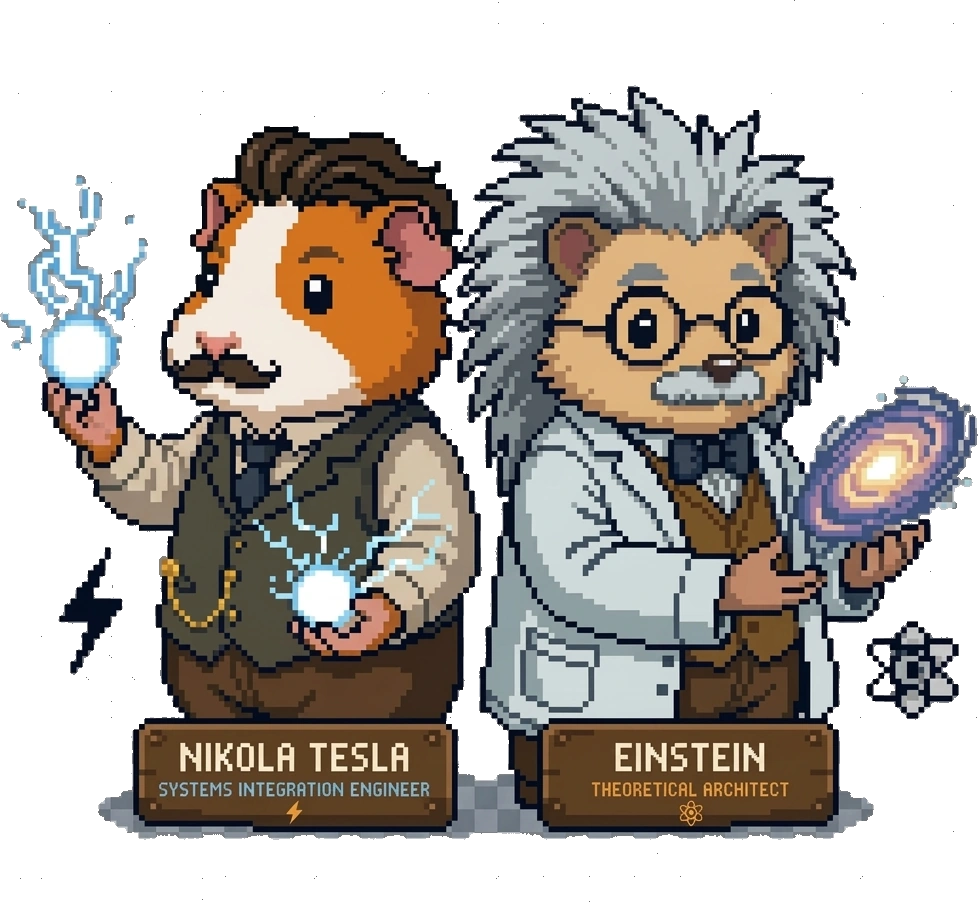
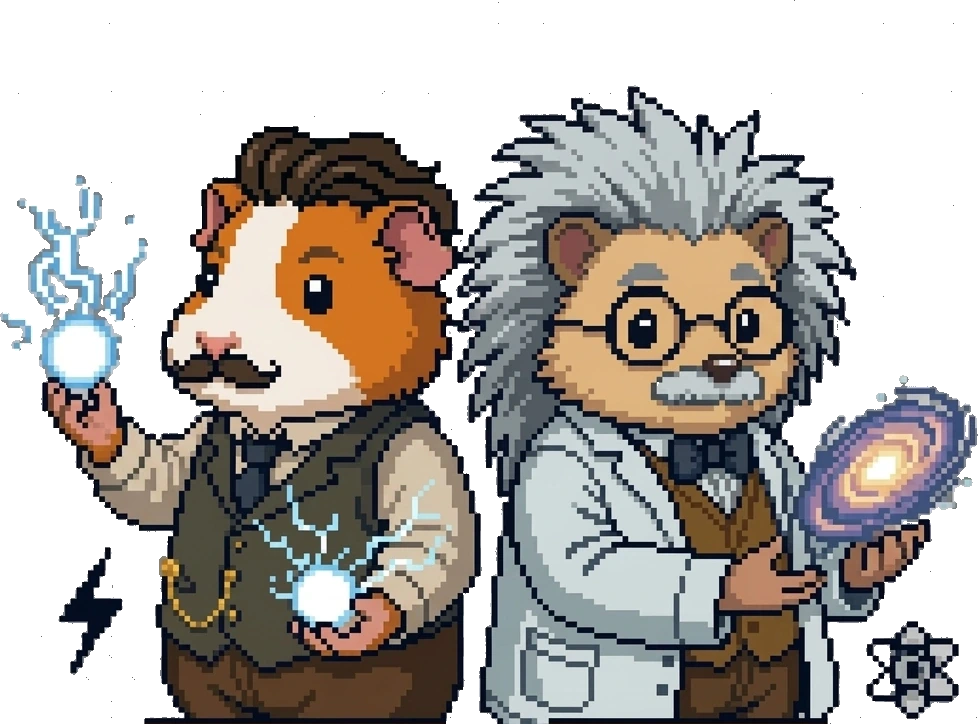
fix(web): la maqueta se rompia en español, fuera los pies de foto, y el detalle tecnico se pliega
1. ESPAÑOL. Medido a 320, 375, 414, 768, 1024, 1280 y 1440 px, comparando
   ingles contra el texto dilatado un 28% (lo que crece el español), y
   marcando SOLO lo que aparece con el español.
   El mismo fallo latente estaba en TRES rejillas y un flex: una pista sin
   `minmax(0, ...)` (o una casilla de flex sin `min-width: 0`) no encoge por
   debajo de su contenido. En ingles colaba de milagro; en español se salian
   de la pantalla, y como `html` lleva `overflow-x: clip` el contenido quedaba
   CORTADO y no se podia ni arrastrar para verlo.
     .mp-list    "Inside my own pack" se salia ~100 px a 375 y 414
     .estimator  los botones del motor, a 320, 375 y 414
     .faq-a      las respuestas del FAQ, hasta x=836 en una pantalla de 375
     .hero-me    la nota junto al personaje, 26 px a 320
   Mas `overflow-wrap: anywhere` para nombres propios y <code> que no partian.
   Resultado: los 7 anchos limpios, cero desborde nuevo en español.

2. FUERA LOS PIES DE FOTO. Los cuatro <figcaption> se van: dos iban SUPERPUESTOS
   sobre la foto con un degradado oscuro para poder leerse, y los otros dos
   describian debajo lo que la imagen ya enseña. Lo que decian vive en el `alt`,
   que es lo que leen un buscador y un lector de pantalla, y no tapa nada.
   El del diagrama de cargadores no era un pie sino su afirmacion, asi que pasa
   a parrafo en vez de borrarse.

3. LAS MASCOTAS, SIN CARGOS INVENTADOS. La ilustracion traia dos placas
[…]

diff --git a/index.html b/index.html
@@ -836,7 +836,12 @@
 
     /* ── ESTIMATOR ── */
     #estimator { border-top: 1px solid var(--border); }
-    .estimator { margin-top: 2.75rem; display: grid; grid-template-columns: 1.3fr 1fr; gap: 1.5rem; align-items: start; }
+    /* `minmax(0, ...)` en las dos columnas: un `1fr` pelado tiene como minimo el
+       min-content de lo que lleva dentro, asi que no encoge por debajo de su
+       palabra o su boton mas ancho. Con el texto en español los botones del
+       motor se salian de la pantalla a 320, 375 y 414 px. Mismo fallo que tenia
+       `.mp-list`. */
+    .estimator { margin-top: 2.75rem; display: grid; grid-template-columns: minmax(0, 1.3fr) minmax(0, 1fr); gap: 1.5rem; align-items: start; }
     .est-form { background: linear-gradient(180deg, #1a1814, #131210); padding: var(--pad-card); border: 1px solid var(--border); border-radius: var(--radius-lg); box-shadow: inset 0 1px 0 rgba(234,228,214,0.04), 0 8px 24px -16px rgba(0,0,0,0.7); }
     /* Elegir Compatibilidad/Mantenimiento/Optimizacion hace desaparecer tres
        preguntas y aparecer otra de golpe, sin explicacion: el formulario cambia de
@@ -924,7 +929,12 @@
     /* La frase va en HTML y no dentro del SVG: asi usa la tipografia real del
        sitio, escala como el resto del texto y la lee un buscador. */
     .loomd-claim { margin: 0.4rem auto 0; max-width: 560px; text-align: center; font-family: var(--font-display); font-weight: 700; font-size: 1.22rem; letter-spacing: -0.01em; color: var(--text); }
-    .loomd-wrap figcaption { margin-top: 1.2rem; font-size: 0.85rem; line-height: 1.65; color: var(--text-mute); max-width: 62ch; }
+    /* La afirmacion secundaria del diagrama. Era un <figcaption> y ahora es un
+       <p>: no describia el dibujo, decia lo que hace josda, y un pie de foto
+       debajo de una imagen es justo lo que el no quiere. Se centra como su
+       hermana de arriba, en vez de alinearse a la izquierda como hacia el pie. */
+    .loomd-claim--sub { margin-top: 0.7rem; font-family: inherit; font-weight: 400;
+      font-size: 0.9rem; line-height: 1.6; color: var(--text-mute); max-width: 46ch; }
     .est-opt .loglyph { width: 16px; height: 16px; margin-right: 0.5rem; vertical-align: middle; }
     .est-opt.brand-forge .loglyph { color: #b9b3a7; }
     .est-opt.brand-neoforge .loglyph { color: var(--terracotta); }
@@ -1124,7 +1134,12 @@
        a la altura real, asi que las respuestas cortas terminaban antes de tiempo y
        las largas daban un tiron al final. Con 0fr->1fr la altura real es la que se
        anima, no hay techo que ajustar y no hay nada que se pueda cortar. */
-    .faq-a { display: grid; grid-template-rows: 0fr; overflow: hidden; transition: grid-template-rows 0.25s ease; padding: 0 1.3rem; color: var(--text-soft); font-size: 0.88rem; line-height: 1.65; }
+    /* Lleva `grid-template-columns` aunque la rejilla se use para las FILAS (el
+       acordeon anima `0fr -> 1fr`). Sin declararla, la columna implicita queda en
+       `auto`, cuyo minimo es el min-content: la respuesta no encogia por debajo
+       de su palabra mas larga y en español se salia de la pantalla. Tercera vez
+       el mismo fallo en esta hoja, despues de `.mp-list` y `.estimator`. */
+    .faq-a { display: grid; grid-template-rows: 0fr; grid-template-columns: minmax(0, 1fr); overflow: hidden; transition: grid-template-rows 0.25s ease; padding: 0 1.3rem; color: var(--text-soft); font-size: 0.88rem; line-height: 1.65; }
     /* Medido: 129 caracteres por linea, lo mas ilegible de la pagina. El borde y la
        flecha los pone .faq-item, asi que limitar aqui no rompe la caja.
        Ni relleno ni margen abajo en el hijo: es la casilla de la rejilla y su caja
@@ -1223,6 +1238,24 @@
        La frase de debajo no es adorno: un numero suelto no dice nada, lo que
        convence es la frase que le dice al numero que esta demostrando. */
     .figrow { display: grid; grid-template-columns: repeat(3, minmax(0, 1fr)); gap: 1.4rem; margin: 2.2rem 0 2.6rem; }
+    /* Tres columnas a 320 px dan ~90 px cada una, y ahi ya no cabe una palabra
+       larga en español: la cifra y su texto se salian de la pantalla. Por debajo
+       de 420 px van en una sola columna. `overflow-wrap` es la red de seguridad
+       para una palabra que no quepa ni asi (nombres de mod, rutas). */
+    @media (max-width: 420px) { .figrow { grid-template-columns: minmax(0, 1fr); gap: 1rem; } }
+    .fig-t, .fig-n { overflow-wrap: anywhere; }
+    /* Red de seguridad para palabras que no caben en una pantalla estrecha:
+       nombres propios largos (BuiltByBit, CurseForge, los ids de los mods) y los
+       <code>. Sin esto se salian de la pantalla en español, y como `html` lleva
+       `overflow-x: clip` no se podian ni arrastrar para leerlos: quedaban
+       cortados. Va `anywhere` y no `break-word` A PROPOSITO: solo `anywhere`
+       reduce el min-content, que es lo que permite a una casilla de rejilla o de
+       flex encoger por debajo de su palabra mas larga. `break-word` deja el
+       min-content igual y el desborde seguiria. Solo actua cuando la palabra NO
+       cabe, asi que el texto normal no cambia. */
+    p, li, h1, h2, h3, h4, dd, dt, td, th, summary, code,
+    .fig-t, .est-label, .card-stats .v, .port-name,
+    .faq-body, .est-disclaimer { overflow-wrap: anywhere; }
     .fig { display: flex; flex-direction: column; gap: 0.5rem; }
     .fig-n { font-family: var(--font-display); font-size: clamp(2.4rem, 6vw, 3.4rem); font-weight: 700; line-height: 0.95; color: var(--gold); font-variant-numeric: tabular-nums; }
     .fig-rule { width: 44px; height: 2px; background: var(--border-lt); }
@@ -1314,8 +1347,8 @@
          personajes SON las dos mitades del proceso */
     .mascotas { margin: 2.2rem auto 0; max-width: 500px; }
     .mascotas img { display: block; width: 100%; height: auto; }
-    .mascotas figcaption { margin-top: 0.9rem; font-size: 0.85rem; line-height: 1.65; color: var(--text-mute); text-align: center; max-width: 36em; margin-left: auto; margin-right: auto; }
-    .mascotas figcaption strong { color: var(--text-soft); }
+    /* Sin `figcaption`: se recortaron las placas con los cargos inventados, asi
+       que ya no hay nada que desmentir debajo de la imagen. */
     /* El perro y el gato. Venian con cinco estrellas doradas y "Expertos."
        encima: en una pagina de servicios eso se lee como una NOTA, y no hay
        ninguna resena detras. Se recorto esa franja y el pie dice lo que si es
@@ -1354,15 +1387,18 @@
     /* El pie va sobre la imagen y no debajo: debajo parte el respiro en dos y deja
        de leerse como una pausa. El degradado es fijo (no de tema) porque lo que hay
        detras es la foto, que no cambia con el tema. */
-    .scene-band figcaption { position: absolute; inset: auto 0 0 0; padding: 2.8rem 1.5rem 0.9rem; font-size: 0.78rem; line-height: 1.5; color: rgba(255,255,255,0.87); background: linear-gradient(180deg, rgba(9,8,6,0) 0%, rgba(9,8,6,0.68) 58%, rgba(9,8,6,0.9) 100%); }
-    .scene-band figcaption > span { display: block; max-width: 1240px; margin: 0 auto; }
-    @media (max-width: 720px) { .scene-band figcaption { padding-inline: 1.2rem; font-size: 0.74rem; } }
+    /* Las bandas ya NO llevan pie superpuesto. Llevaban un <figcaption> en
+       `position: absolute` con un degradado oscuro encima de la foto para poder
+       leerse: texto sobre la imagen, que es justo lo que josda no quiere. Lo que
+       decian vive en el `alt`, que es lo que leen un buscador y un lector de
+       pantalla, y ademas no tapa nada. */
     /* Retrato en #about. Es el mismo personaje de las bandas, asi que la seccion
        que dice "solo yo" ensena a quien. 351 px es el original entero, no hay mas:
        la columna se queda en 200 px a proposito para no estirarlo. */
     .me-shot { grid-column: 2; grid-row: 1; margin: 0; }
     .me-shot img { display: block; width: 100%; height: auto; border-radius: var(--radius); border: 1px solid var(--border); }
-    .me-shot figcaption { margin-top: 0.55rem; font-size: 0.76rem; line-height: 1.5; color: var(--text-mute); }
+    /* Sin `figcaption`: decia "Me, in the pack I keep for myself", que es lo
+       mismo que ya dice el `alt` y lo que cuenta el parrafo de al lado. */
     .about-copy { grid-column: 1; grid-row: 1; min-width: 0; }
     /* Esta consulta va DESPUES de las dos reglas de arriba a proposito. Puesta antes
        tiene la misma especificidad y pierde por orden: la rejilla se queda en una
@@ -1453,7 +1489,7 @@
     footer a { color: var(--text-soft); }
 
     @media (max-width: 760px) {
-      .estimator { grid-template-columns: 1fr; }
+      .estimator { grid-template-columns: minmax(0, 1fr); }
       .est-result { position: static; }
     }
     /* La cabecera completa (marca + 5 enlaces + CTA + 2 toggles) necesita unos
@@ -1510,7 +1546,14 @@
     .packwork { margin-top: 2.8rem; padding-top: 2rem; border-top: 1px solid var(--border); }
     .packwork h3 { font-size: 1.1rem; font-weight: 700; margin-bottom: 0.5rem; }
     .packwork-lead { max-width: 52em; color: var(--text-soft); font-size: 0.9rem; line-height: 1.65; margin: 0; }
-    .mp-list { margin-top: 1.6rem; display: grid; gap: 1.1rem; }
+    /* `minmax(0, 1fr)` y no la columna implicita: una pista de rejilla en `auto`
+       tiene como MINIMO el min-content de lo que lleva dentro, asi que crece con
+       el contenido en vez de encogerse con la pantalla. En ingles colaba de
+       milagro; con el texto en español (un 28% mas largo) la tarjeta se salia
+       ~100 px a 375 y 414 px, y como `html` lleva `overflow-x: clip` no se podia
+       ni arrastrar para verlo: quedaba cortado y punto.
+       Es el mismo patron que la pagina ya usa en `.mp-head` y en `.figrow`. */
+    .mp-list { margin-top: 1.6rem; display: grid; grid-template-columns: minmax(0, 1fr); gap: 1.1rem; }
     .mp-item { background: linear-gradient(180deg, #1a1814, #131210); border: 1px solid var(--border); border-top: 2px solid var(--border-lt); border-radius: var(--radius-lg); padding: var(--pad-card); }
     /* Cabecera en rejilla y no en linea: cuando lleve el logo del mod al lado,
        el titulo tiene que poder ocupar dos lineas sin empujarlo. */
@@ -1682,7 +1725,11 @@
     @media (max-width: 420px) { .ch--autor { width: 84px; margin-right: 0.65rem; } }
     .hero-me { display: flex; align-items: center; gap: 0.75rem; margin-top: 1.6rem; }
     .hero-me img { width: 116px; height: auto; image-rendering: pixelated; flex-shrink: 0; }
-    .hero-me span { font-size: 0.82rem; line-height: 1.45; color: var(--text-mute); }
+    /* `min-width: 0` porque una casilla de flex vale por defecto `min-width: auto`,
+       o sea que NO encoge por debajo de su contenido. Con el texto en español se
+       salia 26 px de la pantalla a 320 px. Es el mismo minimo implicito que tenian
+       las tres rejillas (`.mp-list`, `.estimator`, `.faq-a`), en su version flex. */
+    .hero-me span { font-size: 0.82rem; line-height: 1.45; color: var(--text-mute); min-width: 0; }
   </style>
   <script>
     (function(){
@@ -1916,14 +1963,16 @@
       <g style="color:var(--ld-forge)"><circle class="loomd-node" cx="170.1" cy="325.0" r="54"/><circle class="loomd-node-fill" cx="170.1" cy="325.0" r="54"/><g class="loomd-glyph"><g transform="translate(149.7,304.6) scale(1.700)"><path fill="currentColor" d="M2 8h10l-1.2 2.4H15v2h-1.9L12 17H8L6.2 12.4H2z"/><rect x="6" y="18" width="9" height="2" rx="0.4" fill="currentColor"/></g></g><text translate="no" class="loomd-t" x="170.1" y="413.0" font-size="28" text-anchor="middle">Forge</text></g>
       </svg>
       <p class="loomd-claim">Any version, any loader.</p>
-      <figcaption>I work in all three. <span translate="no">Fabric</span> to <span translate="no">Forge</span> is the hard one, and I do it.</figcaption>
+      <!-- Esto NO es un pie de foto, es la afirmacion del diagrama, asi que va
+           como parrafo y no como <figcaption>: josda no quiere texto explicando
+           imagenes debajo de ellas, y un <figcaption> es exactamente eso. Aqui
+           el texto no describe el dibujo, dice lo que el hace. -->
+      <p class="loomd-claim loomd-claim--sub">I work in all three. <span translate="no">Fabric</span> to <span translate="no">Forge</span> is the hard one, and I do it.</p>
     </figure>
   </div>
 </section>
 <figure class="scene-band">
   <img src="band-flight.webp" width="1800" height="1012" alt="My character hanging in the air above an open sea, with the sun going down behind him." loading="lazy" decoding="async">
-  <figcaption><span>Same pack, same character. None of those mods are mine.</span></figcaption>
-
 </figure>
 <!-- PORTFOLIO -->
 <section id="portfolio">
@@ -2267,8 +2316,13 @@
       <div class="step"><div class="step-n">06</div><h3>I check back</h3><p>Once it has actually run in your pack, not just on my machine. <strong>Bugs inside the agreed scope are on me for 30 days.</strong> Anything after that, or anything new you need, comes back to me as a returning client.</p></div>
     </div>
     <figure class="mascotas">
-      <img src="mascotas.webp" width="978" height="902" alt="Two pixel-art mascots on wooden nameplates: a guinea pig with a moustache holding crackling electricity, labelled Nikola Tesla, systems integration engineer; and a hedgehog in a lab coat holding a galaxy, labelled Einstein, theoretical architect." loading="lazy" decoding="async">
-      <figcaption><strong>Mascots, not staff.</strong> The job titles are invented.</figcaption>
+      <!-- La ilustracion traia dos placas horneadas con CARGOS INVENTADOS
+           ("Systems Integration Engineer", "Theoretical Architect") en la pagina
+           de un negocio de una persona, y por eso NECESITABA un pie que los
+           desmintiera. Se recortaron las placas (tools_mascotas_sin_placas.py):
+           sin cargos no hay nada que desmentir, y el pie desaparece con ellos.
+           El texto alternativo tampoco los nombra ya. -->
+      <img src="mascotas.webp" width="978" height="724" alt="Two pixel-art mascots: a guinea pig with a moustache holding crackling electricity, and a hedgehog in a lab coat holding a galaxy." loading="lazy" decoding="async">
     </figure>
   </div>
 </section>
@@ -2490,7 +2544,6 @@
     <div class="about-body">
       <figure class="me-shot">
         <img src="me.webp" width="351" height="408" alt="Close view of my character in a red and gold armour set with glowing green trim, standing in a field of purple flowers." loading="lazy" decoding="async">
-        <figcaption>Me, in the pack I keep for myself.</figcaption>
       </figure>
       <div class="about-copy">
       <p>Like a lot of pack builders, I spent years waiting on mods that never got updated. Eventually I started <span translate="no">porting</span> them myself, and after enough of them on <span translate="no">Forge</span> 1.20.1 I know the API cold: the event handlers, the <span translate="no">Gradle</span> quirks, the mapping gaps between versions. Most of the people who write to me run a private SMP with friends, or keep a <span translate="no">modpack</span> alive that one dead mod is holding hostage.</p>
@@ -2520,7 +2573,6 @@
 </section>
 <figure class="scene-band">
   <img src="band-cow.webp" width="1800" height="1012" alt="My character standing on open grassland beside a large pale horned cow, with slimes in the distance." loading="lazy" decoding="async">
-  <figcaption><span>Where the <span translate="no">porting</span> started: my own pack.</span></figcaption>
 </figure>
 <div class="torn-sep" aria-hidden="true"><svg viewBox="0 0 1440 24" preserveAspectRatio="none"><path d="M0 24 L0 11 L52 16 L108 8 L168 17 L232 7 L304 15 L380 9 L456 17 L536 7 L618 15 L702 9 L786 17 L870 8 L952 15 L1036 9 L1120 17 L1204 8 L1286 15 L1366 10 L1440 14 L1440 24 Z"/></svg>
 
@@ -2593,32 +2645,37 @@
     <div class="port-grid">
       <div class="port-card">
         <h3 class="port-name">A crash the compiler cannot see</h3>
-        <p class="port-desc">In my <span translate="no">port</span> of <span translate="no">Capybara</span> (<span translate="no">39Choko</span>, MIT) the model asked for a bone called <span translate="no">saddleParts</span>. In the model file that bone is called <span translate="no">saddle</span>. The name lives inside a text string, so nothing checked it. The build passed. The resource diff passed. It crashed the first time a capybara was drawn, in my own test instance. <span translate="no">GeckoLib</span>'s <span translate="no">AnimationProcessor.getBone</span> returns null for a name the model does not have, and the renderer runs every frame.</p>
-        <p class="port-footer-note"><strong>Proof.</strong> I kept the broken <span translate="no">jar</span>. The check now reads bone names straight out of the compiled bytecode with <span translate="no">javap</span> and compares them against the model file. On the fixed <span translate="no">jar</span>: one bone found, zero failures. On the broken <span translate="no">jar</span>: it fails, names <span translate="no">saddleParts</span>, and prints the 11 bones that do exist. I wrote up <a href="geckolib-bone-name-crash.html">how to run that check on your own <span translate="no">jar</span></a>.</p>
+        <details class="more more--card"><summary>Read the detail</summary>
+          <p class="port-desc">In my <span translate="no">port</span> of <span translate="no">Capybara</span> (<span translate="no">39Choko</span>, MIT) the model asked for a bone called <span translate="no">saddleParts</span>. In the model file that bone is called <span translate="no">saddle</span>. The name lives inside a text string, so nothing checked it. The build passed. The resource diff passed. It crashed the first time a capybara was drawn, in my own test instance. <span translate="no">GeckoLib</span>'s <span translate="no">AnimationProcessor.getBone</span> returns null for a name the model does not have, and the renderer runs every frame.</p>
+          <p class="port-footer-note"><strong>Proof.</strong> I kept the broken <span translate="no">jar</span>. The check now reads bone names straight out of the compiled bytecode with <span translate="no">javap</span> and compares them against the model file. On the fixed <span translate="no">jar</span>: one bone found, zero failures. On the broken <span translate="no">jar</span>: it fails, names <span translate="no">saddleParts</span>, and prints the 11 bones that do exist. I wrote up <a href="geckolib-bone-name-crash.html">how to run that check on your own <span translate="no">jar</span></a>.</p></details>
       </div>
 
       <div class="port-card">
         <h3 class="port-name">Files that vanish in the repack</h3>
-        <p class="port-desc">A <span translate="no">port</span> is a rebuild, not a copy. Recipes, loot tables and textures can go missing when the <span translate="no">jar</span> is repackaged, and nothing errors. The mod loads and quietly does less than it did before.</p>
-        <p class="port-footer-note"><strong>Proof.</strong> I diff every asset, data and licence file against the <span translate="no">jar</span> the original author published. Across <span translate="no">Boids</span> and <span translate="no">Birds</span> (<span translate="no">Tomate0613</span>, MIT) and <span translate="no">Capybara</span> (<span translate="no">39Choko</span>, MIT): 22 of the 28 are byte identical. 6 are <span translate="no">JSON</span> the build reformatted, and they parse to exactly the same data. Two files are added, both <span translate="no">Forge</span> biome modifiers so spawns work on this loader. Loader metadata is replaced on purpose, <span translate="no">mods.toml</span> where <span translate="no">Fabric</span> had <span translate="no">fabric.mod.json</span>. Unzip both <span translate="no">jars</span> and run the same diff.</p>
+        <details class="more more--card"><summary>Read the detail</summary>
+          <p class="port-desc">A <span translate="no">port</span> is a rebuild, not a copy. Recipes, loot tables and textures can go missing when the <span translate="no">jar</span> is repackaged, and nothing errors. The mod loads and quietly does less than it did before.</p>
+          <p class="port-footer-note"><strong>Proof.</strong> I diff every asset, data and licence file against the <span translate="no">jar</span> the original author published. Across <span translate="no">Boids</span> and <span translate="no">Birds</span> (<span translate="no">Tomate0613</span>, MIT) and <span translate="no">Capybara</span> (<span translate="no">39Choko</span>, MIT): 22 of the 28 are byte identical. 6 are <span translate="no">JSON</span> the build reformatted, and they parse to exactly the same data. Two files are added, both <span translate="no">Forge</span> biome modifiers so spawns work on this loader. Loader metadata is replaced on purpose, <span translate="no">mods.toml</span> where <span translate="no">Fabric</span> had <span translate="no">fabric.mod.json</span>. Unzip both <span translate="no">jars</span> and run the same diff.</p></details>
       </div>
 
       <div class="port-card">
         <h3 class="port-name"><span translate="no">Yarn</span> names and <span translate="no">Mojang</span> names do not line up</h3>
-        <p class="port-desc"><span translate="no">Fabric</span> source is written in <span translate="no">Yarn</span> names. <span translate="no">Forge</span> builds against <span translate="no">Mojang</span>'s. I bridge them in two hops through intermediary mappings, and the translator only rewrites a name when it has exactly one possible target. Anything ambiguous is left for the compiler to reject.</p>
-        <p class="port-footer-note"><strong>Proof.</strong> It still gets things wrong, and those mistakes compile. On <span translate="no">Capybara</span> the jungle spawn biome came out of the translator as <span translate="no">JUNGLE_PLANKS</span>. That is why I read translated output back against the original source before it goes into a build. The jungle, mangrove swamp and sparse jungle spawns in that <span translate="no">port</span> came from the original, not from the translated text.</p>
+        <details class="more more--card"><summary>Read the detail</summary>
+          <p class="port-desc"><span translate="no">Fabric</span> source is written in <span translate="no">Yarn</span> names. <span translate="no">Forge</span> builds against <span translate="no">Mojang</span>'s. I bridge them in two hops through intermediary mappings, and the translator only rewrites a name when it has exactly one possible target. Anything ambiguous is left for the compiler to reject.</p>
+          <p class="port-footer-note"><strong>Proof.</strong> It still gets things wrong, and those mistakes compile. On <span translate="no">Capybara</span> the jungle spawn biome came out of the translator as <span translate="no">JUNGLE_PLANKS</span>. That is why I read translated output back against the original source before it goes into a build. The jungle, mangrove swamp and sparse jungle spawns in that <span translate="no">port</span> came from the original, not from the translated text.</p></details>
       </div>
 
       <div class="port-card">
         <h3 class="port-name">Fine in singleplayer, dead on the server</h3>
-        <p class="port-desc">A clientbound packet handler written as a method reference is resolved where it is registered. A dedicated server has no client class to resolve, so registration can take the server down at startup while singleplayer never complains.</p>
-        <p class="port-footer-note"><strong>Proof.</strong> On a network layer <span translate="no">backport</span> from 1.21 to <span translate="no">Forge</span> 1.20.1, on my own <span translate="no">modpack</span>, I rebuilt every packet payload by hand: 22 serverbound, 19 clientbound. All 19 clientbound handlers are explicit lambdas with the client call behind a <span translate="no">Dist.CLIENT</span> guard, and all 41 register from one shared method with sequential IDs, so the two sides cannot drift. That is how the code is written, not a test result. I do not name the mod here: it is a personal-use <span translate="no">port</span> and I have no written permission from the author to put its name on a commercial page.</p>
+        <details class="more more--card"><summary>Read the detail</summary>
+          <p class="port-desc">A clientbound packet handler written as a method reference is resolved where it is registered. A dedicated server has no client class to resolve, so registration can take the server down at startup while singleplayer never complains.</p>
+          <p class="port-footer-note"><strong>Proof.</strong> On a network layer <span translate="no">backport</span> from 1.21 to <span translate="no">Forge</span> 1.20.1, on my own <span translate="no">modpack</span>, I rebuilt every packet payload by hand: 22 serverbound, 19 clientbound. All 19 clientbound handlers are explicit lambdas with the client call behind a <span translate="no">Dist.CLIENT</span> guard, and all 41 register from one shared method with sequential IDs, so the two sides cannot drift. That is how the code is written, not a test result. I do not name the mod here: it is a personal-use <span translate="no">port</span> and I have no written permission from the author to put its name on a commercial page.</p></details>
       </div>
 
       <div class="port-card">
         <h3 class="port-name"><span translate="no">Mixins</span> that quietly do not load</h3>
-        <p class="port-desc">Repackaging a <span translate="no">jar</span> can drop the manifest entry that declares its mixin configs. <span translate="no">Forge</span> then loads the mod without complaint and none of the mixins apply. The mod is installed, part of its behaviour is missing, and nothing in the log says so.</p>
-        <p class="port-footer-note"><strong>Proof.</strong> Same class of bug, same answer: it became a check. The manifest one in the <a href="#portfolio">five checks I run</a> is this exact bug, turned into something a script can catch. They are a colander, not a proof. The bone check only sees literal names, and it needs a <span translate="no">JDK</span> to read the bytecode.</p>
+        <details class="more more--card"><summary>Read the detail</summary>
+          <p class="port-desc">Repackaging a <span translate="no">jar</span> can drop the manifest entry that declares its mixin configs. <span translate="no">Forge</span> then loads the mod without complaint and none of the mixins apply. The mod is installed, part of its behaviour is missing, and nothing in the log says so.</p>
+          <p class="port-footer-note"><strong>Proof.</strong> Same class of bug, same answer: it became a check. The manifest one in the <a href="#portfolio">five checks I run</a> is this exact bug, turned into something a script can catch. They are a colander, not a proof. The bone check only sees literal names, and it needs a <span translate="no">JDK</span> to read the bytecode.</p></details>
       </div>
     </div>
   </div>
